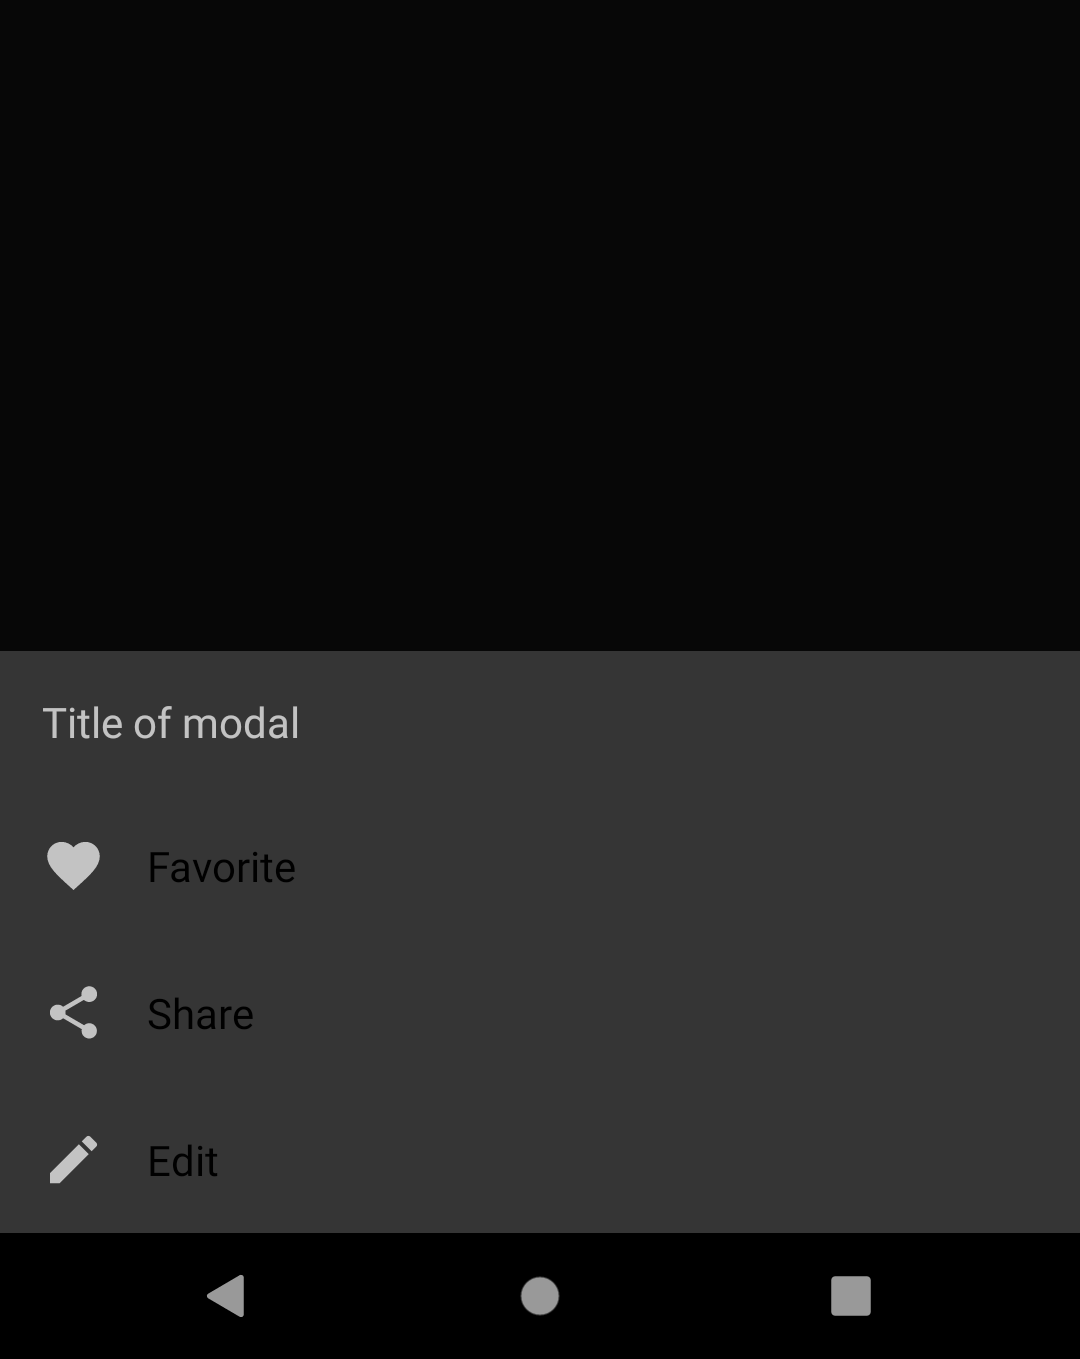
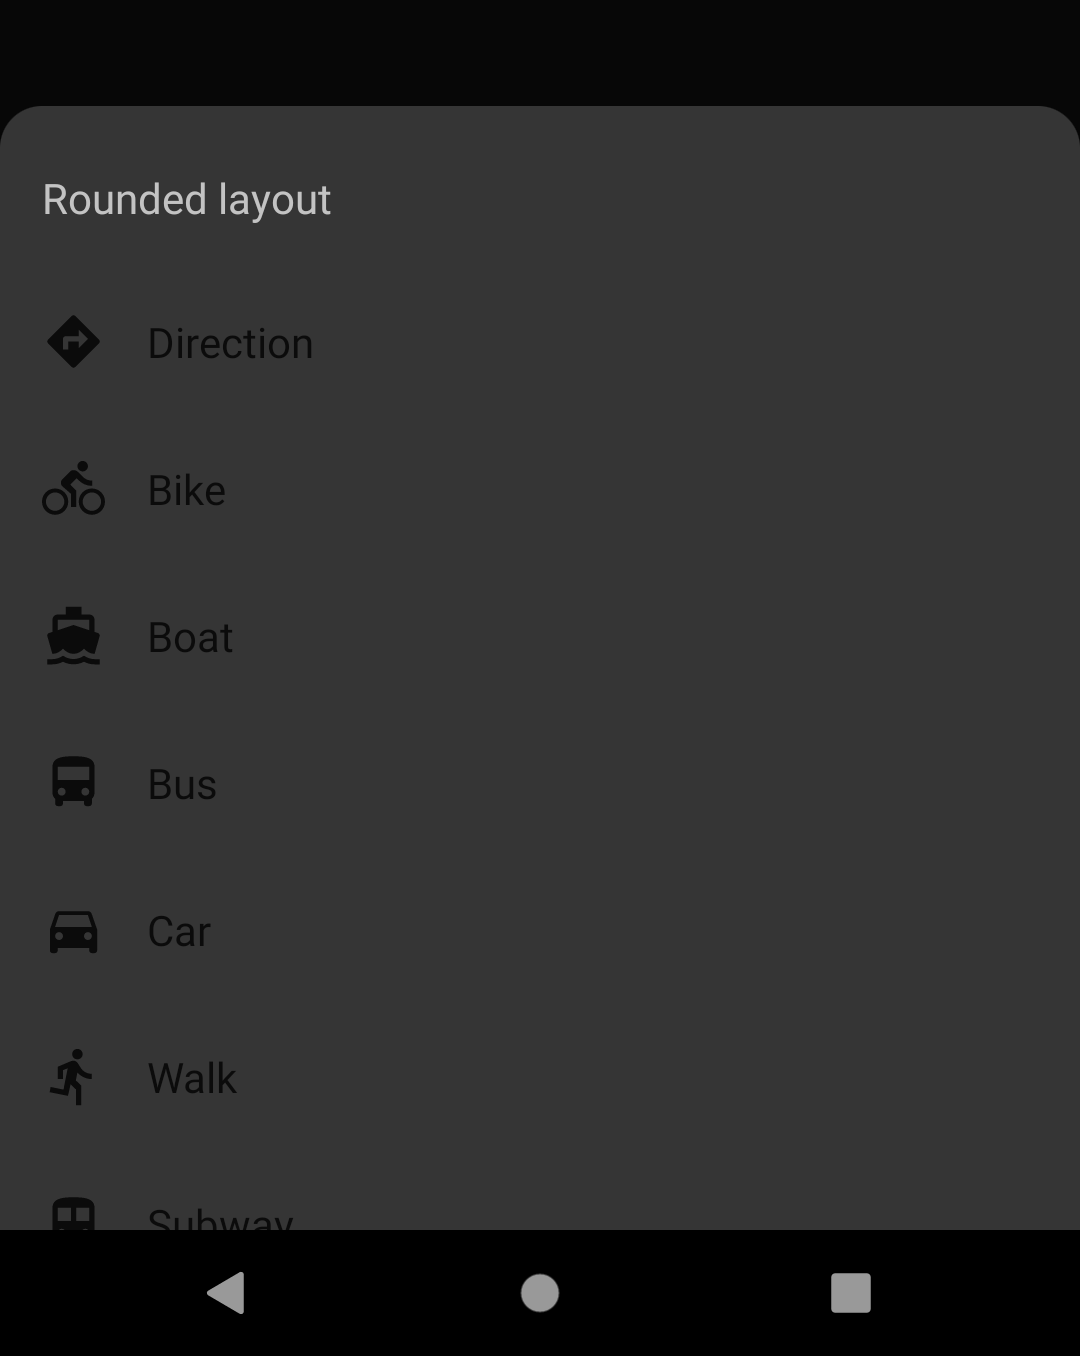
Updated Readme, added option for rounded corners

diff --git a/modalbottomsheetdialog/src/main/java/nl/invissvenska/modalbottomsheetdialog/ModalBottomSheetDialog.java b/modalbottomsheetdialog/src/main/java/nl/invissvenska/modalbottomsheetdialog/ModalBottomSheetDialog.java
@@ -34,20 +34,27 @@ public class ModalBottomSheetDialog extends BottomSheetDialogFragment {
     private static final String KEY_HEADER = "header";
     private static final String KEY_HEADER_LAYOUT = "header_layout";
     private static final String KEY_COLUMNS = "columns";
+    private static boolean roundedModal = false;
 
     private static ModalBottomSheetDialog newInstance(Builder builder) {
         if (fragment == null) {
             fragment = new ModalBottomSheetDialog();
         }
+        roundedModal = builder.roundedModal;
+
         Bundle arguments = new Bundle();
         arguments.putString(KEY_HEADER, builder.header);
         arguments.putInt(KEY_HEADER_LAYOUT, builder.headerLayoutResource);
         arguments.putParcelableArrayList(KEY_ITEMS, builder.items);
         arguments.putInt(KEY_ITEM_LAYOUT, builder.itemLayoutResource);
         arguments.putInt(KEY_COLUMNS, builder.columns);
-
         fragment.setArguments(arguments);
         return fragment;
+    }
+
+    @Override
+    public int getTheme() {
+        return roundedModal ? R.style.BottomSheetDialogTheme : super.getTheme();
     }
 
     @Override
@@ -125,6 +132,7 @@ public class ModalBottomSheetDialog extends BottomSheetDialogFragment {
         private ArrayList<ItemHolder> items = new ArrayList<>();
         private int itemLayoutResource = R.layout.bottom_sheet_fragment_item;
         private int columns = 1;
+        private boolean roundedModal = false;
 
         public Builder setHeader(String header) {
             this.header = header;
@@ -148,6 +156,11 @@ public class ModalBottomSheetDialog extends BottomSheetDialogFragment {
 
         public Builder setColumns(int columns) {
             this.columns = columns;
+            return this;
+        }
+
+        public Builder setRoundedModal(boolean roundedModal) {
+            this.roundedModal = roundedModal;
             return this;
         }
 

diff --git a/app/src/main/java/nl/invissvenska/modalbottomsheetdialog/sample/MainActivity.java b/app/src/main/java/nl/invissvenska/modalbottomsheetdialog/sample/MainActivity.java
@@ -75,6 +75,17 @@ public class MainActivity extends AppCompatActivity implements ModalBottomSheetD
                         .show(getSupportFragmentManager(), "ScrollLayout");
             }
         });
+
+        findViewById(R.id.buttonRounded).setOnClickListener(new View.OnClickListener() {
+            @Override
+            public void onClick(View view) {
+                new ModalBottomSheetDialog.Builder()
+                        .setHeader("Rounded layout")
+                        .setRoundedModal(true)
+                        .add(R.menu.lot_of_options)
+                        .show(getSupportFragmentManager(), "RoundedLayout");
+            }
+        });
     }
 
     @Override

diff --git a/README.md b/README.md
@@ -7,10 +7,10 @@ Add this in your root `build.gradle` file (**not** your module `build.gradle` fi
 
 ```gradle
 allprojects {
-	repositories {
-		...
-		maven { url "https://jitpack.io" }
-	}
+    repositories {
+        ...
+        maven { url "https://jitpack.io" }
+    }
 }
 ```
 
@@ -20,8 +20,8 @@ Add this to your module's `build.gradle` file (make sure the version matches the
 
 ```gradle
 dependencies {
-	...
-	implementation 'com.github.invissvenska:ModalBottomSheetDialog:VERSION'
+    ...
+    implementation 'com.github.invissvenska:ModalBottomSheetDialog:VERSION'
 }
 ```
 
@@ -49,6 +49,7 @@ new ModalBottomSheetDialog.Builder()
     .add(@MenuRes int menuResource) // can be used more then once
     .setItemLayout(@LayoutRes int layoutResource) // optional (TextView with id 'title' or ImageView with id 'icon' must be defined in layout)
     .setColumns(int columns) // optional (default is 1)
+    .setRoundedModal(boolean roundedModal) // optional (default is false)
     .show(FragmentManager fragmentManager, String tag);
 ```
 
@@ -91,9 +92,9 @@ new ModalBottomSheetDialog.Builder()
 To display a ModalBottomSheetDialog with items from multiple menu resources:
 ``` java
 new ModalBottomSheetDialog.Builder()
-                        .add(R.menu.options)
-                        .add(R.menu.options)
-                        .show(getSupportFragmentManager(), "WithoutHeader");
+    .add(R.menu.options)
+    .add(R.menu.options)
+    .show(getSupportFragmentManager(), "WithoutHeader");
 ```
 
 To display a ModalBottomSheetDialog in a grid layout:
@@ -114,6 +115,15 @@ new ModalBottomSheetDialog.Builder()
     .setItemLayout(R.layout.alternate_bottom_sheet_fragment_item)
     .setColumns(3)
     .show(getSupportFragmentManager(), "Custom Layout");
+```
+
+To display a ModalBottomSheetDialog with rounded corners:
+``` java
+new ModalBottomSheetDialog.Builder()
+    .setHeader("Rounded bottom layout")
+    .add(R.menu.lot_of_options)
+    .setRoundedModal(true)
+    .show(getSupportFragmentManager(), "Rounded Layout");
 ```
 
 ## Screenshots
